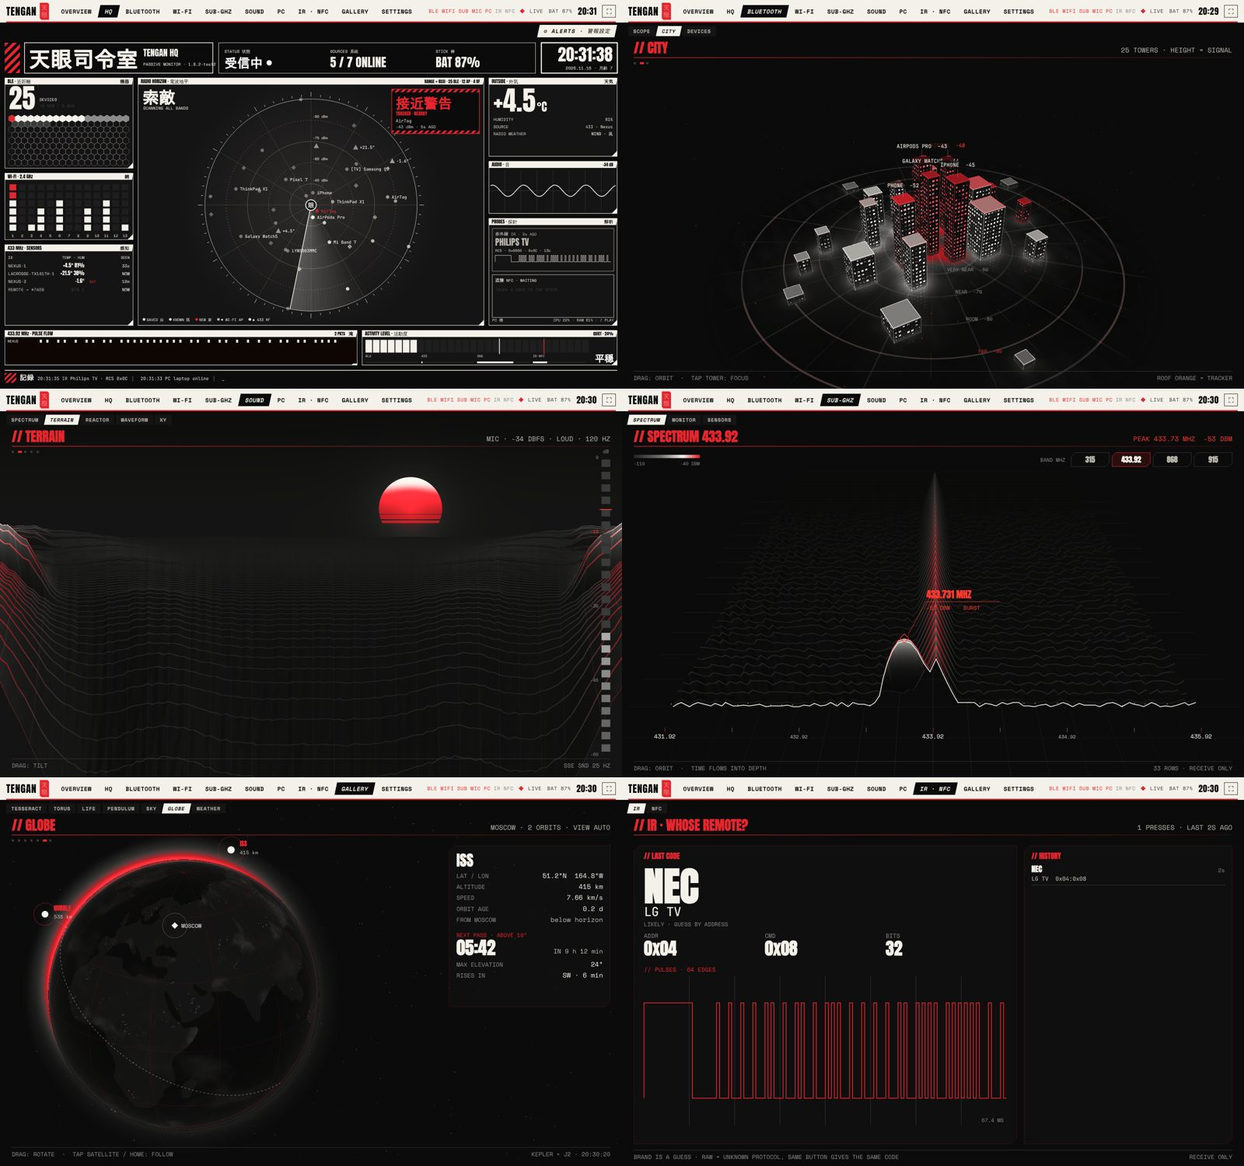
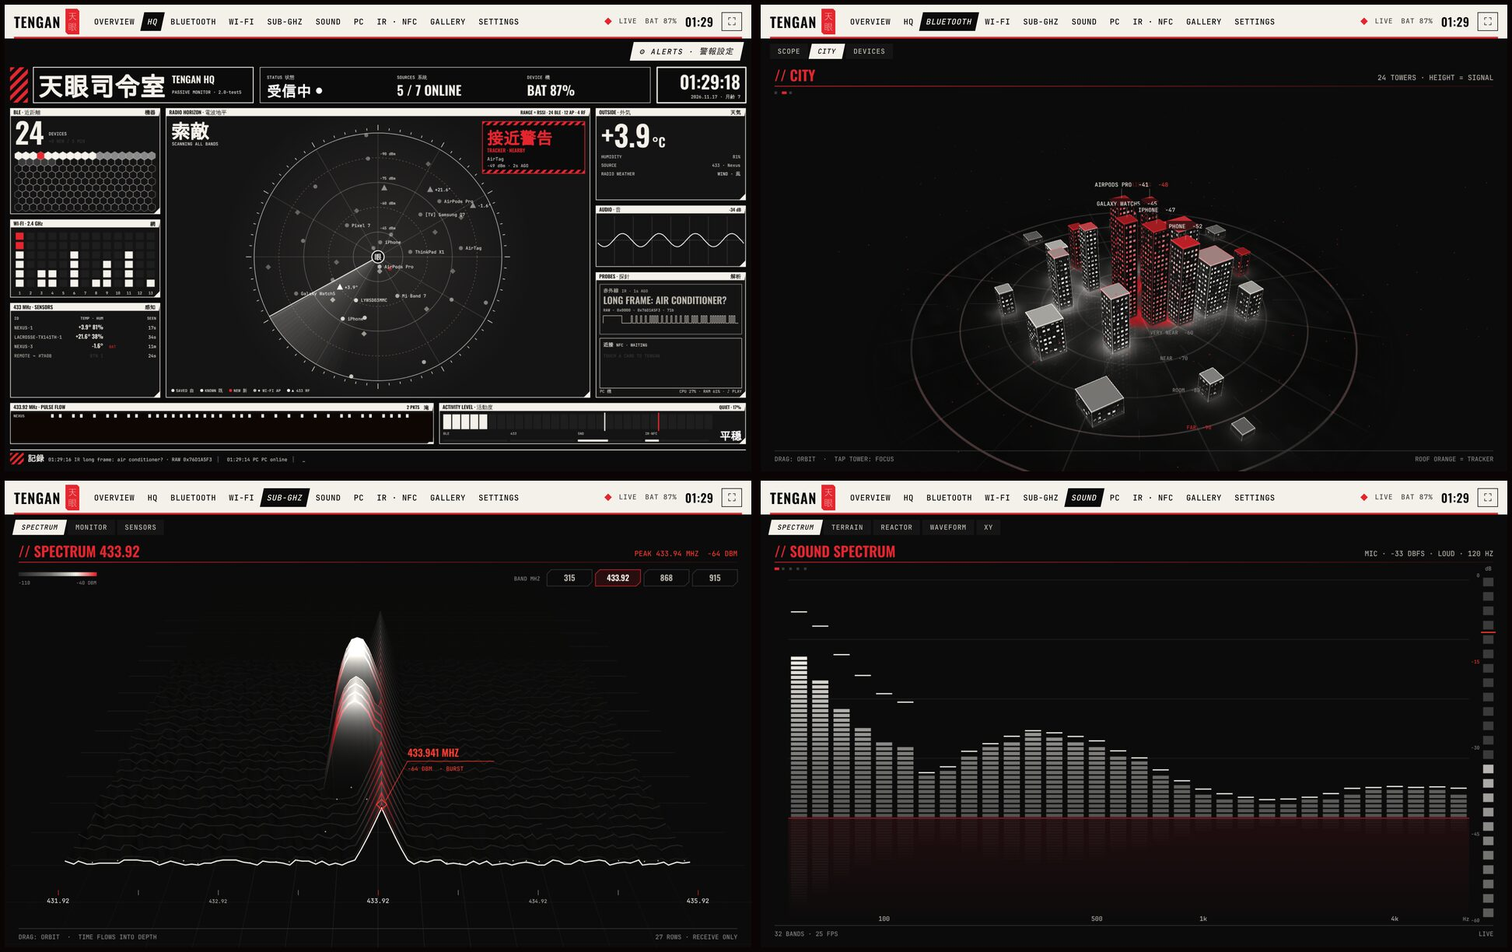
README (EN/RU): HD tablet/desktop/flasher shots per language, hero HQ shot, release/build/license badges, "What you need", fixed stale facts
- New images from the mock + Playwright (2x): HQ hero, six sections, KURENAI, TENGAN Desktop, flasher — EN and RU.
- Device galleries with captions in the README's language (RU gallery shows RU screens).
- Fixed: language is chosen on the device (not by firmware edition); flasher button names; OTA files are no
  longer per language.
- Added "What you need" and a short responsible-use note; removed unused images (tablet.jpg, tablet_denko.jpg, web.png).

Claude-Session: https://claude.ai/code/session_013wv8J93xJabHsynA6Ng8Jo

diff --git a/README.ru.md b/README.ru.md
@@ -10,7 +10,9 @@ Bluetooth · Wi-Fi · Sub-GHz · ИК · NFC · звук · монитор ПК 
 на экране устройства, на планшете (TENGAN Tablet) и на компьютере (TENGAN Desktop).<br>
 **Только приём.** TENGAN ничего не передаёт в эфир и ничего не записывает на карты.
 
-[![build](https://github.com/wolfyboy1488/lilygostuff/actions/workflows/build.yml/badge.svg)](https://github.com/wolfyboy1488/lilygostuff/actions/workflows/build.yml)
+[![release](https://img.shields.io/github/v/release/wolfyboy1488/lilygostuff?include_prereleases&style=flat-square&color=3fd9ff&label=release)](https://github.com/wolfyboy1488/lilygostuff/releases/latest)
+[![build](https://img.shields.io/github/actions/workflow/status/wolfyboy1488/lilygostuff/build.yml?style=flat-square&label=build)](https://github.com/wolfyboy1488/lilygostuff/actions/workflows/build.yml)
+[![license](https://img.shields.io/github/license/wolfyboy1488/lilygostuff?style=flat-square&color=7f97a3)](LICENSE)
 ![ESP32-S3](https://img.shields.io/badge/ESP32--S3-T--Embed%20CC1101%20Plus-3fd9ff?style=flat-square)
 ![receive only](https://img.shields.io/badge/RF-receive%20only-7f97a3?style=flat-square)
 ![languages](https://img.shields.io/badge/lang-RU%20%C2%B7%20EN-02090b?style=flat-square&labelColor=7f97a3)
@@ -18,6 +20,7 @@ Bluetooth · Wi-Fi · Sub-GHz · ИК · NFC · звук · монитор ПК 
 ![style](https://img.shields.io/badge/theme-KURENAI-0b0b0b?style=flat-square&labelColor=e5262f)
 
 [**Скачать**](https://github.com/wolfyboy1488/lilygostuff/releases/latest) ·
+[Что нужно](#-что-нужно) ·
 [Быстрый старт](#-быстрый-старт) ·
 [Разделы](#-разделы) ·
 [Планшет и компьютер](#-tengan-tablet-и-tengan-desktop) ·
@@ -32,6 +35,11 @@ Bluetooth · Wi-Fi · Sub-GHz · ИК · NFC · звук · монитор ПК 
 > **天眼 (тэнган)** — по-японски «небесное око»: взгляд, которому видно скрытое и далёкое.
 > TENGAN показывает то, чего не видно глазам: радиоэфир вокруг — телефоны, наушники, роутеры,
 > пульты, брелоки, уличные датчики, карты.
+
+<div align="center">
+<img src="docs/tablet_hq_ru.jpg" width="100%" alt="Штаб TENGAN на планшете — все источники на одном экране">
+<br><sub><b>Штаб</b> на планшете: радиогоризонт, тревоги, датчики, звук, пульты и карты на одном экране. Палка присылает числа — рисует планшет.</sub>
+</div>
 
 ## ✨ Возможности
 
@@ -48,9 +56,17 @@ Bluetooth · Wi-Fi · Sub-GHz · ИК · NFC · звук · монитор ПК 
 | ⚙ | **Настройки** | общие, по разделам и **тревоги**; одинаковые на устройстве, планшете и компьютере |
 
 <div align="center">
-<img src="docs/screens.png" width="100%" alt="Экраны TENGAN">
+<img src="docs/screens_ru.png" width="100%" alt="Экраны TENGAN">
 <br><sub>Экран устройства 320×170, увеличен вдвое. Все картинки — настоящий код рисования, снятый в симуляторе.</sub>
 </div>
+
+## 🧰 Что нужно
+
+| | |
+|---|---|
+| **Устройство** | **LilyGO T-Embed CC1101 Plus** (ESP32-S3, экран 320×170, колесо, CC1101, ИК, NFC PN532, микрофон, динамик, светодиоды, аккумулятор). Подойдёт и T-Embed CC1101 без Plus — без раздела NFC |
+| **Для установки** | компьютер с **Chrome** или **Edge** и кабель USB-C — ничего ставить не нужно |
+| **По желанию** | планшет или телефон на Android (TENGAN Tablet), любой браузер в той же Wi-Fi или компьютер с TENGAN Desktop (Windows, macOS, Linux) |
 
 ## 🚀 Быстрый старт
 
@@ -61,7 +77,7 @@ Bluetooth · Wi-Fi · Sub-GHz · ИК · NFC · звук · монитор ПК 
 1. Скачай прошивальщик со страницы [**Releases**](https://github.com/wolfyboy1488/lilygostuff/releases/latest):
    **`flash_tengan.html`** — одна прошивка для русского и английского.
 2. Подключи T-Embed к компьютеру USB-кабелем и открой файл в **Chrome** или **Edge**.
-3. Нажми **«Прошить»** и выбери в списке *USB JTAG/serial debug unit*.
+3. Нажми **«Установить прошивку»**, выбери в списке *USB JTAG/serial debug unit* и нажми **«Подключиться»**.
 4. Когда появится **«Готово»**, переподключи кабель. При первом включении TENGAN спросит язык: **English** или **Русский**.
 
 Прошивка уже внутри файла — ни адресов, ни выбора файлов. Настройки при перепрошивке **сохраняются**.
@@ -69,12 +85,11 @@ Bluetooth · Wi-Fi · Sub-GHz · ИК · NFC · звук · монитор ПК 
 > Дальше можно обновляться **без провода**: раздел Web → страница → вкладка **Update**.
 
 </td>
-<td width="45%"><img src="docs/flasher.png" alt="Прошивальщик в одном файле"></td>
+<td width="45%"><img src="docs/flasher_ru.png" alt="Установщик прошивки в браузере"></td>
 </tr>
 </table>
 
-**Язык** выбирается версией прошивки: русская или английская. Интерфейс устройства, планшета и программы
-на компьютере будет на этом языке.
+**Язык** выбирается на самом устройстве (Настройки › Язык) — планшет и программа на компьютере следуют за ним.
 
 ## 🕹 Управление
 
@@ -180,7 +195,7 @@ Bluetooth · Wi-Fi · Sub-GHz · ИК · NFC · звук · монитор ПК 
 ## 📱 TENGAN Tablet и TENGAN Desktop
 
 <div align="center">
-<img src="docs/tablet.jpg" width="100%" alt="TENGAN Tablet — радар Bluetooth">
+<img src="docs/tablet_sections_ru.jpg" width="100%" alt="TENGAN Tablet — город Bluetooth, каналы Wi-Fi, спектр Sub-GHz, звук, ПК, галерея">
 </div>
 
 Все разделы в полном разрешении экрана: объёмный радар, 3D-город, хребты Wi-Fi, водопад Sub-GHz в глубину,
@@ -188,13 +203,17 @@ Bluetooth · Wi-Fi · Sub-GHz · ИК · NFC · звук · монитор ПК 
 60 кадров в секунду, без интернета. Страница приходит **с самого устройства**, поэтому всегда совпадает
 с прошивкой и сама обновляется вместе с ней.
 
-<img src="docs/tablet_denko.jpg" width="100%" alt="Разделы на планшете — тема DENKO">
 
 | | Как подключиться |
 |---|---|
 | **Браузер** (телефон, планшет, компьютер) | на TENGAN открой раздел **Web** → отсканируй QR или подключись к сети `TENGAN-XXXX` → `192.168.4.1`. Выбор: **LITE** (лёгкая страница для телефона) или **FULL** (полная сцена) |
 | **TENGAN Tablet** (Android, `tengan_tablet.apk`) | та же сцена во весь экран, плюс **GPS**: небо и глобус считаются по твоим координатам. Установка: скопируй APK на планшет, открой, разреши установку |
 | **TENGAN Desktop** (Windows `tengan_desktop.exe`; macOS / Linux — ниже) | штаб и все разделы в окне **по USB-кабелю** (интернет на компьютере остаётся) или по Wi-Fi TENGAN. Внутри — монитор ПК: нагрузка, что играет, громкость, звук для раздела «Звук», точное время и орбиты спутников |
+
+<div align="center">
+<img src="docs/desktop_pc_ru.jpg" width="100%" alt="TENGAN Desktop — монитор ПК">
+<br><sub>TENGAN Desktop на ноутбуке: раздел ПК — нагрузка, память, сеть, батарея, что играет.</sub>
+</div>
 
 <details>
 <summary><b>TENGAN Desktop: подробности</b></summary>
@@ -238,7 +257,7 @@ Bluetooth · Wi-Fi · Sub-GHz · ИК · NFC · звук · монитор ПК 
 <summary><b>Обновление по Wi-Fi и откат</b></summary>
 
 Раздел Web → страница → вкладка **Update** принимает `tengan_full_0x0.bin` и `tengan_firmware_ota.bin`
-(своего языка). Новая прошивка пишется во второй слот и считается пробной: если она не проработает
+из релиза. Новая прошивка пишется во второй слот и считается пробной: если она не проработает
 15 секунд, загрузчик **сам вернёт старую**.
 
 </details>
@@ -252,17 +271,19 @@ Bluetooth · Wi-Fi · Sub-GHz · ИК · NFC · звук · монитор ПК 
 - **KURENAI 紅** — манга-панк: только чёрный, белый и алый, косые белые плашки, крупные рубленые цифры,
   без свечения — поэтому ещё и быстрее.
 
-<img src="docs/tablet_kurenai.jpg" width="100%" alt="Разделы на планшете — тема KURENAI">
+<img src="docs/tablet_kurenai_ru.jpg" width="100%" alt="Разделы на планшете — тема KURENAI">
 
-<img src="docs/screens_kurenai.png" width="100%" alt="Экраны устройства — тема KURENAI">
+<img src="docs/screens_kurenai_ru.png" width="100%" alt="Экраны устройства — тема KURENAI">
 
-## 🔒 Приватность и принцип «только приём»
+## 🔒 Приватность, принцип «только приём» и ответственное использование
 
 - TENGAN **ничего не передаёт** в эфир: CC1101 и ИК никогда не включаются на передачу, NFC только читает.
   Единственное, что излучает устройство, — его собственная точка Wi-Fi для планшета, когда открыт раздел Web.
 - Показывается только то, что устройства и так рассылают всем вокруг. Содержимое Wi-Fi-пакетов не читается,
   коды пультов не сохраняются, у банковских карт номер и имя не читаются.
 - Всё работает **без интернета** и без облака: данные не покидают устройство и твой планшет/компьютер.
+- TENGAN — инструмент, чтобы понять, как устроен радиоэфир вокруг. Законы о радиоприёме и частной жизни в
+  разных странах разные: пользуйся там и так, где это законно, и уважай чужую приватность.
 
 ## ❓ Вопросы и ответы
 

diff --git a/README.md b/README.md
@@ -10,7 +10,9 @@ Bluetooth · Wi-Fi · Sub-GHz · IR · NFC · sound · PC monitor — one tactic
 on the device, on a tablet (TENGAN Tablet) and on a computer (TENGAN Desktop).<br>
 **Receive only.** TENGAN never transmits on the air and never writes to cards.
 
-[![build](https://github.com/wolfyboy1488/lilygostuff/actions/workflows/build.yml/badge.svg)](https://github.com/wolfyboy1488/lilygostuff/actions/workflows/build.yml)
+[![release](https://img.shields.io/github/v/release/wolfyboy1488/lilygostuff?include_prereleases&style=flat-square&color=3fd9ff&label=release)](https://github.com/wolfyboy1488/lilygostuff/releases/latest)
+[![build](https://img.shields.io/github/actions/workflow/status/wolfyboy1488/lilygostuff/build.yml?style=flat-square&label=build)](https://github.com/wolfyboy1488/lilygostuff/actions/workflows/build.yml)
+[![license](https://img.shields.io/github/license/wolfyboy1488/lilygostuff?style=flat-square&color=7f97a3)](LICENSE)
 ![ESP32-S3](https://img.shields.io/badge/ESP32--S3-T--Embed%20CC1101%20Plus-3fd9ff?style=flat-square)
 ![receive only](https://img.shields.io/badge/RF-receive%20only-7f97a3?style=flat-square)
 ![languages](https://img.shields.io/badge/lang-EN%20%C2%B7%20RU-02090b?style=flat-square&labelColor=7f97a3)
@@ -18,6 +20,7 @@ on the device, on a tablet (TENGAN Tablet) and on a computer (TENGAN Desktop).<b
 ![style](https://img.shields.io/badge/theme-KURENAI-0b0b0b?style=flat-square&labelColor=e5262f)
 
 [**Download**](https://github.com/wolfyboy1488/lilygostuff/releases/latest) ·
+[What you need](#-what-you-need) ·
 [Quick start](#-quick-start) ·
 [Sections](#-sections) ·
 [Tablet & desktop](#-tengan-tablet-and-tengan-desktop) ·
@@ -32,6 +35,11 @@ on the device, on a tablet (TENGAN Tablet) and on a computer (TENGAN Desktop).<b
 > **天眼 (tengan)** is Japanese for "heavenly eye" — the sight that sees what is hidden and far away.
 > TENGAN shows what your eyes can't: the radio world around you — phones, earbuds, routers, remotes,
 > key fobs, outdoor sensors, cards.
+
+<div align="center">
+<img src="docs/tablet_hq.jpg" width="100%" alt="TENGAN HQ on a tablet — every source on one screen">
+<br><sub><b>HQ</b> on a tablet: the radio horizon, alerts, sensors, sound, remotes and cards on one screen. The device sends numbers — the tablet draws.</sub>
+</div>
 
 ## ✨ Features
 
@@ -52,6 +60,14 @@ on the device, on a tablet (TENGAN Tablet) and on a computer (TENGAN Desktop).<b
 <br><sub>The 320×170 device screen at 2×. Every image is the real drawing code captured in the simulator.</sub>
 </div>
 
+## 🧰 What you need
+
+| | |
+|---|---|
+| **Device** | **LilyGO T-Embed CC1101 Plus** (ESP32-S3, 320×170 screen, wheel, CC1101, IR, PN532 NFC, microphone, speaker, LEDs, battery). The non-Plus T-Embed CC1101 works too, without the NFC section |
+| **To install** | a computer with **Chrome** or **Edge** and a USB-C cable — nothing to install |
+| **Optional** | an Android tablet or phone (TENGAN Tablet), any browser on the same Wi-Fi, or a computer with TENGAN Desktop (Windows, macOS, Linux) |
+
 ## 🚀 Quick start
 
 <table>
@@ -61,7 +77,7 @@ on the device, on a tablet (TENGAN Tablet) and on a computer (TENGAN Desktop).<b
 1. Download the flasher from [**Releases**](https://github.com/wolfyboy1488/lilygostuff/releases/latest):
    **`flash_tengan.html`** — one firmware for English and Russian.
 2. Connect the T-Embed to your computer with a USB cable and open the file in **Chrome** or **Edge**.
-3. Press **Flash** and pick *USB JTAG/serial debug unit*.
+3. Press **Install firmware**, pick *USB JTAG/serial debug unit* and **Connect**.
 4. When it says **Done**, reconnect the cable. At first start TENGAN asks for the language: **English** or **Русский**.
 
 The firmware is inside the file — no addresses, no file picking. Settings are **kept** when you reflash.
@@ -69,12 +85,11 @@ The firmware is inside the file — no addresses, no file picking. Settings are 
 > Later updates can go **over the air**: Web section → page → **Update** tab.
 
 </td>
-<td width="45%"><img src="docs/flasher.png" alt="Single-file flasher"></td>
+<td width="45%"><img src="docs/flasher.png" alt="Single-file flasher in the browser"></td>
 </tr>
 </table>
 
-**Language** is chosen by the firmware edition (English or Russian). The device, tablet and desktop
-interfaces all follow it.
+**Language** is chosen on the device (Settings › Language) — the tablet and desktop interfaces follow it.
 
 ## 🕹 Controls
 
@@ -180,7 +195,7 @@ the device remembers them and keeps computing on its own, offline.</sub>
 ## 📱 TENGAN Tablet and TENGAN Desktop
 
 <div align="center">
-<img src="docs/tablet.jpg" width="100%" alt="TENGAN Tablet — Bluetooth scope">
+<img src="docs/tablet_sections.jpg" width="100%" alt="TENGAN Tablet — Bluetooth city, Wi-Fi channels, Sub-GHz spectrum, sound, PC, gallery">
 </div>
 
 Every section at full screen resolution: a volumetric radar, the 3D city, Wi-Fi ridges, a deep Sub-GHz waterfall,
@@ -188,13 +203,17 @@ sound terrain, HQ, the gallery. TENGAN sends only numbers; the tablet or compute
 60 frames per second, no internet. The page is served **by the device itself**, so it always matches the
 firmware and updates together with it.
 
-<img src="docs/tablet_denko.jpg" width="100%" alt="Sections on a tablet — DENKO theme">
 
 | | How to connect |
 |---|---|
 | **Browser** (phone, tablet, computer) | open **Web** on TENGAN → scan the QR code or join `TENGAN-XXXX` → `192.168.4.1`. Choose **LITE** (a light page for phones) or **FULL** (the full scene) |
 | **TENGAN Tablet** (Android, `tengan_tablet.apk`) | the same scene full screen, plus **GPS**: sky and globe use your coordinates. Install: copy the APK to the tablet, open it, allow installation |
 | **TENGAN Desktop** (Windows `tengan_desktop.exe`; macOS / Linux — see below) | HQ and every section in a window **over the USB cable** (your computer keeps its internet) or over TENGAN's Wi-Fi. Includes the PC monitor: load, now playing, volume, PC audio for Sound, exact time and satellite orbits |
+
+<div align="center">
+<img src="docs/desktop_pc.jpg" width="100%" alt="TENGAN Desktop — PC monitor">
+<br><sub>TENGAN Desktop on a laptop: the PC section — load, memory, network, battery, now playing.</sub>
+</div>
 
 <details>
 <summary><b>TENGAN Desktop details</b></summary>
@@ -237,7 +256,7 @@ run them with a real TENGAN yet — reports are welcome.
 <details>
 <summary><b>Over-the-air updates and rollback</b></summary>
 
-Web → page → **Update** accepts `tengan_full_0x0.bin` and `tengan_firmware_ota.bin` (of your language).
+Web → page → **Update** accepts `tengan_full_0x0.bin` and `tengan_firmware_ota.bin` from the release.
 The new firmware goes to the second slot as a trial: if it does not run for 15 seconds, the bootloader
 **restores the previous one** by itself.
 
@@ -256,13 +275,15 @@ Until a screen knows the device's theme, startup is plain black and white.
 
 <img src="docs/screens_kurenai.png" width="100%" alt="Device screens — KURENAI theme">
 
-## 🔒 Privacy and the receive-only principle
+## 🔒 Privacy, the receive-only principle and responsible use
 
 - TENGAN **transmits nothing** on the air: CC1101 and IR are never switched to transmit, NFC only reads.
   The only thing the device emits is its own Wi-Fi access point for the tablet, while Web is open.
 - It shows only what devices already broadcast to everyone around. Wi-Fi packet contents are never read,
   remote codes are not stored, bank card numbers and names are not read.
 - Everything works **offline**, with no cloud: data never leaves the device and your tablet/computer.
+- TENGAN is a tool for learning how the radio world around you works. Laws on radio reception and privacy differ
+  between countries — use it where and how it is legal, and respect other people's privacy.
 
 ## ❓ FAQ
 
